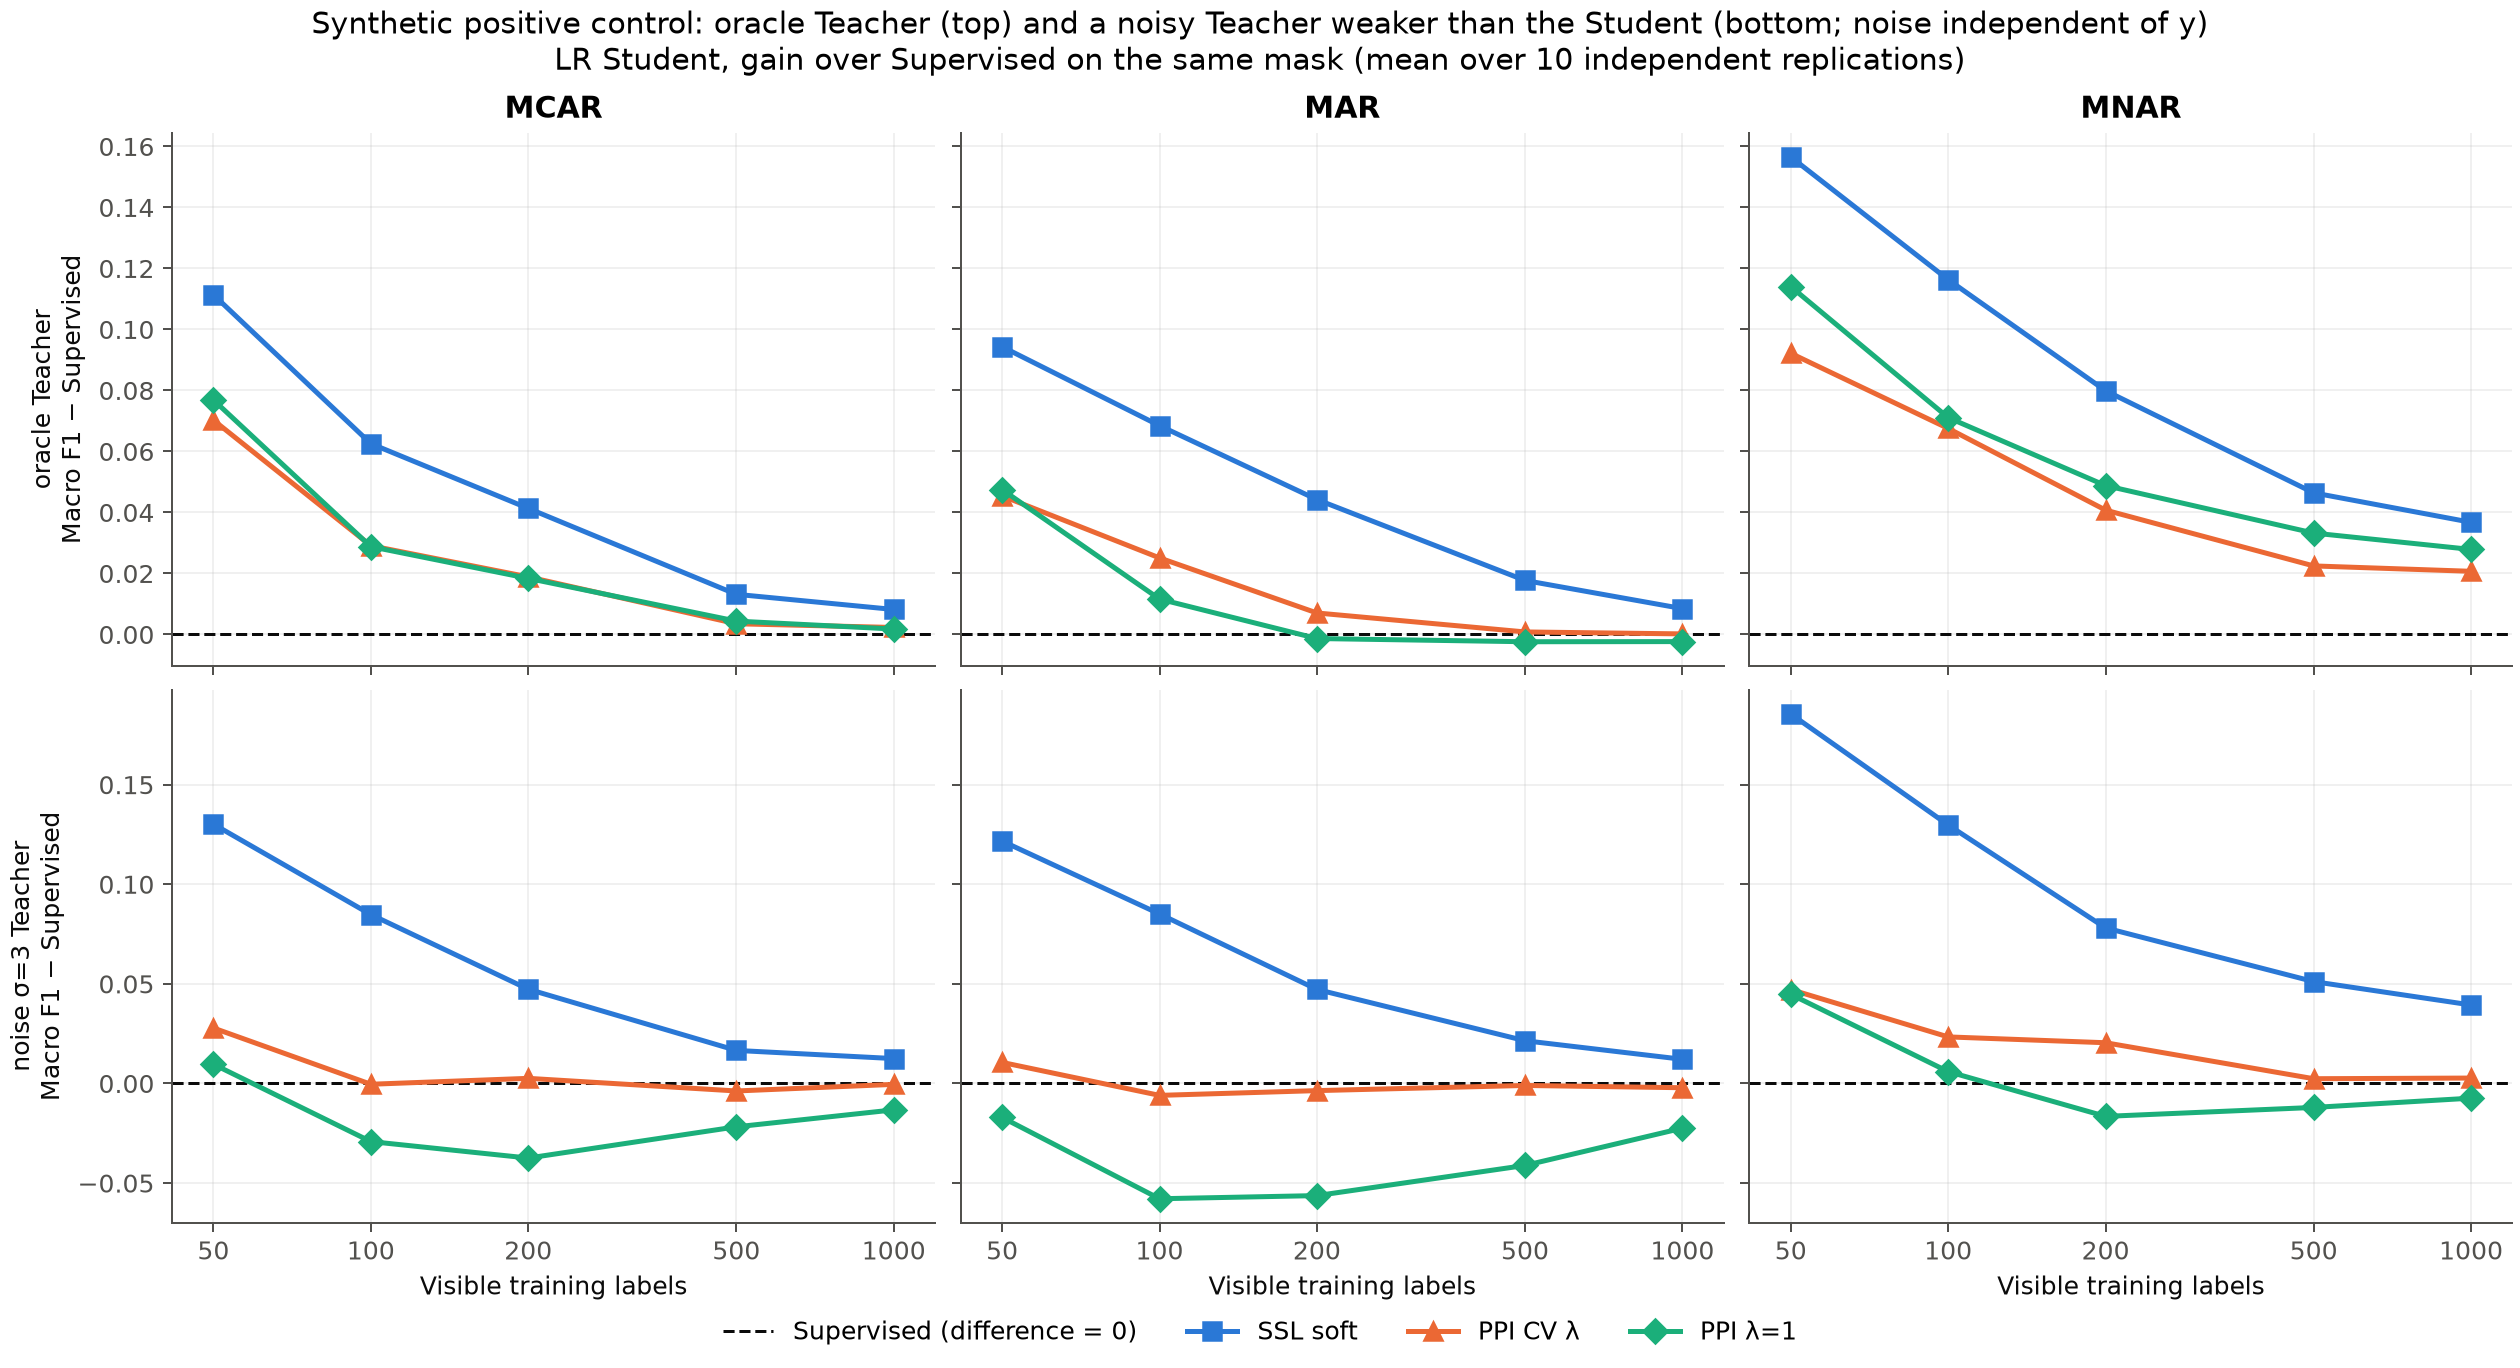
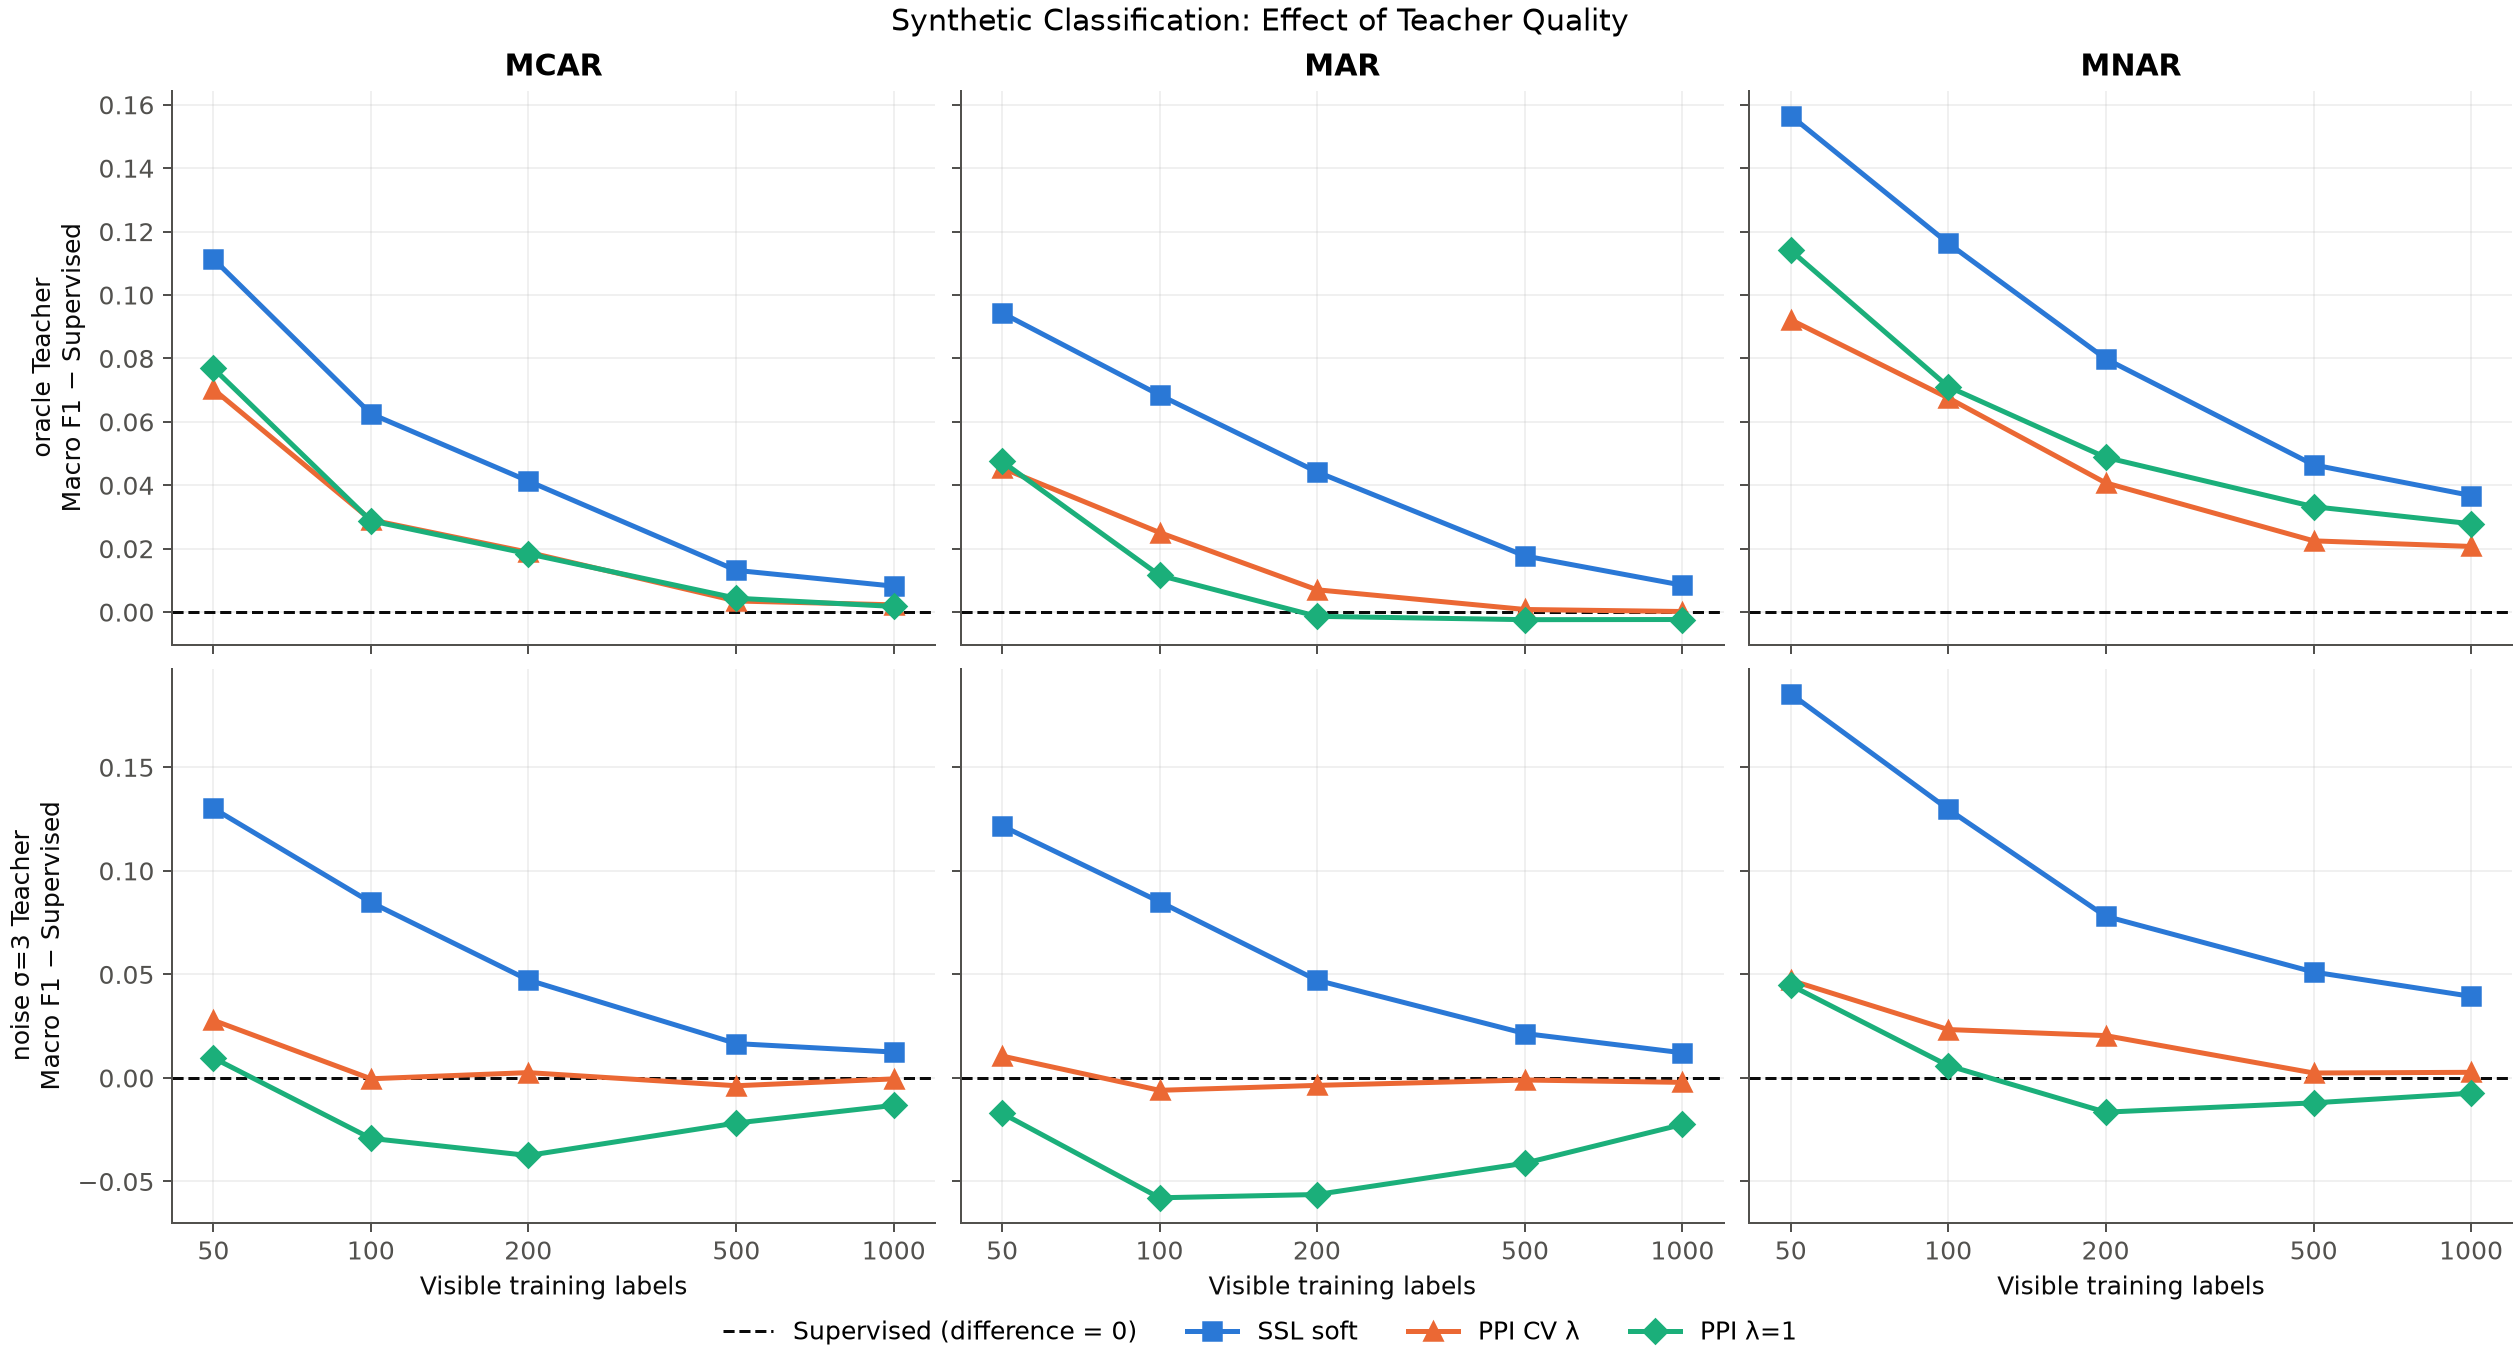
update plot title

diff --git a/src/06_figures.py b/src/06_figures.py
@@ -171,8 +171,7 @@ def learning_curves(main, reference, audits):
             band(ax, by_case(teacher, mechanism), 'CatBoost Teacher (cross-fit)', TEACHER_GRAY, 'D', ':')
             ax.axhline(reference[student]['macro_f1'], color=INK, linestyle='--', linewidth=1.4,
                        label='Fully labeled Student (same architecture)')
-    finish(fig, axes, 'Validation Macro F1 vs visible labels (mean over 5 masks; MAR uses IPW; '
-           'MNAR is an uncorrected stress test)', 'learning_curves.png')
+    finish(fig, axes, 'Classification Performance under Label Scarcity', 'learning_curves.png')
 
 
 # Step 4: Figure 2 — Are the Teachers Better Than the Student They Teach?
@@ -197,8 +196,7 @@ def teacher_quality(main, audits, study_audits, extra):
                 band(ax, by_case(tabpfn, mechanism), 'TabPFN-3.5 Teacher (pretrained; cross-fit)', MUTED, 'X', '-')
                 band(ax, by_case(tabpfn, mechanism, 'alone'), 'TabPFN-3.5 alone (all visible labels as context)',
                      MUTED, 'P', ':')
-    finish(fig, axes, 'Teacher quality: each Teacher vs the Student trained Supervised '
-           '(validation Macro F1; mean over 5 masks)', 'teacher_quality.png')
+    finish(fig, axes, 'Teacher and Supervised Student Performance', 'teacher_quality.png')
 
 
 def tabpfn_results():
@@ -259,8 +257,7 @@ def ppi_gains(rows, split='validation', name='ppi_gains.png', extra=None):
                 t = tabpfn.loc[(student, mechanism)]
                 band(ax, t['SSL soft']-t.Supervised, f'SSL soft (TabPFN-3.5 Teacher{tag})', ORANGE, 'X', ':')
                 band(ax, t['PPI selected']-t.Supervised, f'PPI (TabPFN-3.5 Teacher{tag})', AQUA, 'X', ':')
-    finish(fig, axes, f'Gain over the same Student trained Supervised on the same mask '
-           f'(above 0 = better; {split} Macro F1; mean over 5 masks)', name)
+    finish(fig, axes, f'Macro F1 Gain over Supervised Learning ({split.capitalize()})', name)
 
 
 # Step 6: Figure 4 — XGBoost Sensitivity on the Pre-Declared Subset (A2 Rounds, A3 Capacity)
@@ -290,8 +287,7 @@ def xgboost_sensitivity(main, extra, a2, a3_reference):
                        label='Fully labeled, main')
         bottom.axhline(a3_reference['large']['macro_f1'], color=MUTED, linewidth=1.4,
                        label='Fully labeled, depth 5')
-    finish(fig, axes, 'XGBoost sensitivity (MCAR and MAR at 100 and 500 labels): boosting rounds for PPI (top)\n'
-           'and Student capacity for Supervised (bottom); mean over 5 masks', 'xgboost_sensitivity.png')
+    finish(fig, axes, 'XGBoost: Boosting Rounds and Model Capacity', 'xgboost_sensitivity.png')
 
 
 # Step 7: Print the Key Numbers (Console Only; Nothing Is Written Besides the Figures)
@@ -397,8 +393,7 @@ def improved_outputs():
                 for method, color, marker, style in [('SSL soft', ORANGE, 's', '-'), ('PPI CV λ', AQUA, '^', '-'),
                                                      ('PPI heuristic λ', AQUA, 'v', '--')]:
                     band(ax, (wide[f'{student} / {method}{rule}']-sup).loc[mechanism], method, color, marker, style)
-        finish(fig, axes, f'Exploratory {PROTOCOL["name"]}: gain over Supervised on the same mask ({label}; Ensemble '
-               f'Teacher; validation; mean over {len(CONFIG.seeds)} masks)', name)
+        finish(fig, axes, 'Ensemble Teacher: Student Performance Gains', name)
 
     print(f'\n=== Exploratory {PROTOCOL["name"]} (validation only; {len(CONFIG.seeds)} seeds) ===')
     for student in STUDENTS:
@@ -630,9 +625,7 @@ def positive_control_outputs():
             zero_line(ax)
             for method in PC_METHODS:
                 band(ax, paired(rows, teacher, f'{method} − Supervised').loc[mechanism], method, *styles[method])
-    finish(fig, axes, 'Synthetic positive control: oracle Teacher (top) and a noisy Teacher weaker than the Student (bottom; noise independent of y)'
-           f'\nLR Student, gain over Supervised on the same mask (mean over {len(declaration["grid"]["seeds"])} '
-           'independent replications)', 'positive_control.png')
+    finish(fig, axes, 'Synthetic Classification: Effect of Teacher Quality', 'positive_control.png')
     table = checks(rows, declaration)
     table.to_csv(RESULTS_DIR/'positive_control_checks.csv', index=False, float_format='%.5f')
     print('Saved: results/positive_control_checks.csv')
@@ -650,7 +643,7 @@ def positive_control_outputs():
 
 def ppssl_outputs():
     _module = import_module('05_synthetic_checks')
-    BOUNDARY, SETUP, check_targets, is_complete, load_ppssl, with_best_fixed = _module.BOUNDARY, _module.SETUP, _module.check_targets, _module.ppssl_complete, _module.load_ppssl, _module.with_best_fixed
+    BOUNDARY, check_targets, is_complete, load_ppssl, with_best_fixed = _module.BOUNDARY, _module.check_targets, _module.ppssl_complete, _module.load_ppssl, _module.with_best_fixed
     if not is_complete():
         print('PP-SSL replication incomplete; no figure drawn.', flush=True)
         return
@@ -660,8 +653,8 @@ def ppssl_outputs():
     styles = [('Only Labeled', BLUE, 'o', '-'), ('Classic SSL', ORANGE, 's', '-'), ('Teacher', TEACHER_GRAY, 'D', ':'),
               ('PPI++ (offline λ)', AQUA, 'v', '--'), ('PP-SSL (online λ)', AQUA, '^', '-'),
               ('PPI, λ by training CV (this project)', AQUA, 'P', ':')]
-    for column, (metric, title) in enumerate([('mse', 'All test rows'), ('mse_a', 'Group A (Teacher = oracle)'),
-                                              ('mse_b', 'Group B (Teacher biased by −μ)')]):
+    for column, (metric, title) in enumerate([('mse', 'Overall'), ('mse_a', 'Group A: Oracle Teacher'),
+                                              ('mse_b', 'Group B: Biased Teacher')]):
         ax = axes[0, column]
         for method, color, marker, style in styles:
             values = mean.loc[method, metric]
@@ -685,10 +678,9 @@ def ppssl_outputs():
         ax.plot(curve.index, curve, color=AQUA, marker='o', linestyle=':', linewidth=2, label='PPI gradient, fixed λ')
         ax.axhline(mean.loc[('PP-SSL (online λ)', mu), 'mse'], color=AQUA, linewidth=2, label='PP-SSL (online λ)')
         ax.axhline(mean.loc[('Only Labeled', mu), 'mse'], color=BLUE, linewidth=1.4, label='Only Labeled')
-        ax.set(title=f'Fixed-λ sweep at μ = {mu:g}', xlabel='fixed λ', ylabel='Test MSE (all rows)')
+        ax.set(title=f'Effect of λ (μ = {mu:g})', xlabel='fixed λ', ylabel='Test MSE (all rows)')
         ax.grid(alpha=.18)
-    finish(fig, axes, f"PP-SSL anchor (Shoham et al., NeurIPS 2025): two-group synthetic regression, n = {SETUP['n']}, "
-           f"N = {SETUP['N']}; linear model, Adam lr {SETUP['adam_lr']:g}, {SETUP['steps']:,} steps", 'ppssl_replication.png')
+    finish(fig, axes, 'PP-SSL: Synthetic Regression', 'ppssl_replication.png')
     table = check_targets(runs.loc[runs.method != 'best fixed λ'])
     table.to_csv(RESULTS_DIR/'ppssl_replication_checks.csv', index=False, float_format='%.5f')
     print('Saved: results/ppssl_replication_checks.csv')
